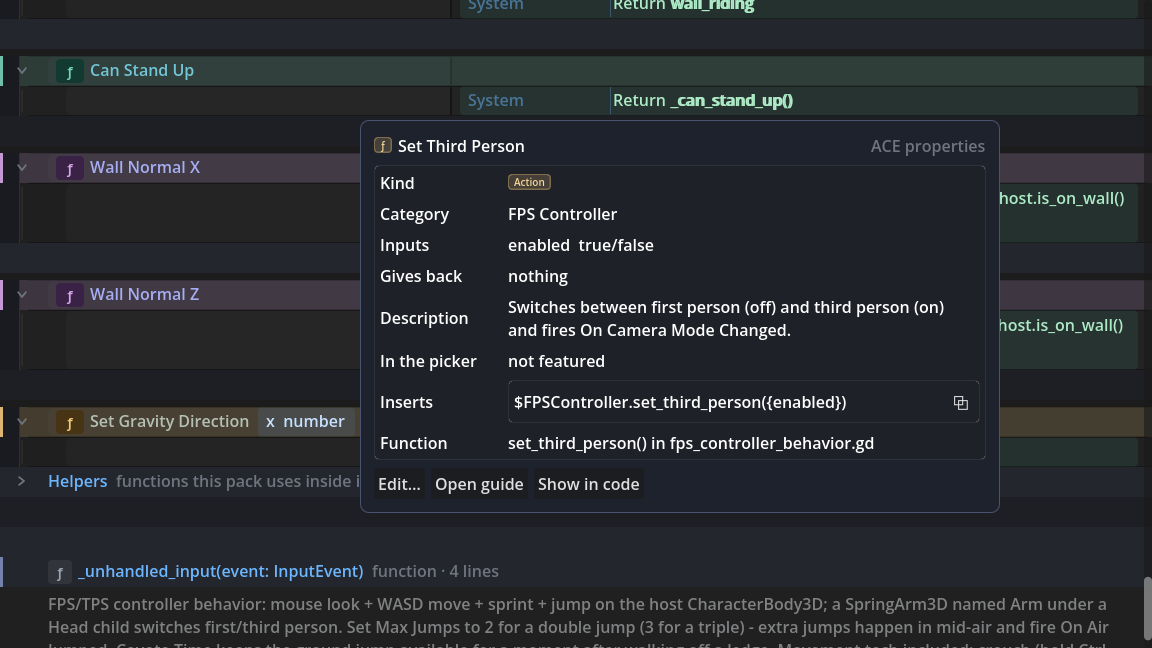
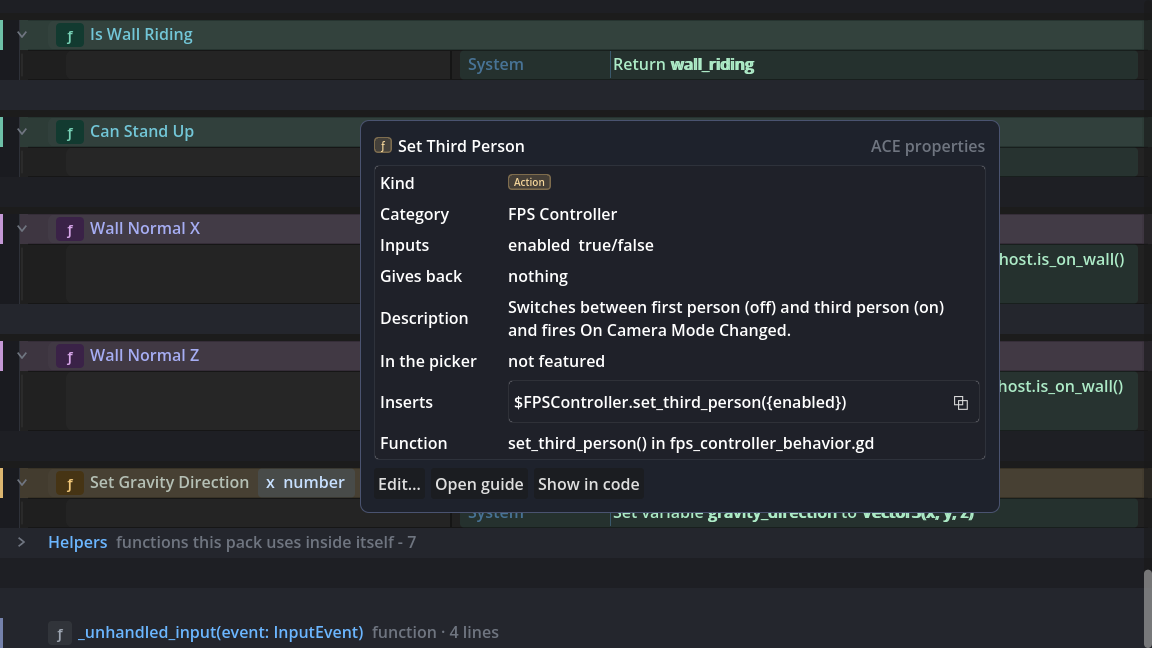
docs(editor): the opened-pack head preview harness, its images and the changelog entry

diff --git a/CHANGELOG.md b/CHANGELOG.md
@@ -32,6 +32,35 @@ reproduce re-anchors instead of failing the file. Result: **79 of 79 packs that 
 open with them; 1,264 of 1,269 verbs fleet-wide** (five single functions remain raw, listed in
 the new test), zero byte drift. `tests/pack_open_lift_test.gd` opens every pack and pins it.
 
+### Changed - the head of an opened pack: one Include bar, the description once, settings in folders
+
+A pack opened as a preview spent two and a half screens before its first rule: a Class setup bar, a
+`host` variable, a Host binding bar, eleven trigger rows, forty-six variable rows in one flat list,
+and then - at the very END of the file - the pack's about text again, as a grey wall nobody scrolls
+to. Construct says all of that in four shapes, and the head now reads as them:
+
+- **The Include bar.** `⇥ Addon Pack` `FPSController` `v1.0.0` *behaves on a* `CharacterBody3D` - the
+  pack's identity as ONE bar, in the slot Construct uses for "Include: Sheet". The class-setup strip,
+  the `host` variable and the Host binding bar fold into it (an editable sheet keeps all three).
+- **The description, once.** The pack's about text reads as a comment bar directly under the identity
+  and is no longer repeated at the end of the file.
+- **Folders, closed.** `Triggers` *this pack fires - 11*, then one bar per `@export_group` in FILE
+  order (`Movement` *3 settings*, `Jump` *3 settings*, …), a `Settings` bar for knobs declared before
+  any group, and `Internal state` *values the pack keeps for itself - 21*. Godot's own grouping rule
+  is honoured - a group claims every knob declared under it, not just the one carrying the line.
+- **A knob reads as a sentence.** `number` `jump_velocity` `= 4.5` *Upward velocity applied on a jump*
+  - the friendly type word leads, and the knob's own `##` doc comment trails it muted, so you learn
+  what a setting does without opening the `.gd`. The `@export` and group chips are gone: everything in
+  a settings folder is exported, and the bar names the group.
+
+Pure view, like the Helpers bar: the rows are re-parented, no resource is touched and the pack still
+re-emits byte-identically. Also fixed: a Function block header whose right lane is empty now spans the
+WHOLE row, so its input chips stop being clipped at the lane divider (`y  number` drew as `y  numb` at
+a narrow split) and wrap onto a second line only if the row itself runs out.
+`tools/render_opened_pack_head_preview.gd` regenerates `docs/images/opened-pack-head.png` and
+`docs/images/opened-pack-head-open.png`; `tests/opened_pack_head_test.gd` pins the bars, their order,
+their fold state and the knob reading by value over the real FPS Controller pack.
+
 ### Changed - an opened pack reads like a Construct sheet: Function blocks, a Helpers group, Reading mode
 
 Now that every pack opens WITH its verbs, the next question is what those verbs SAY. A verb header
